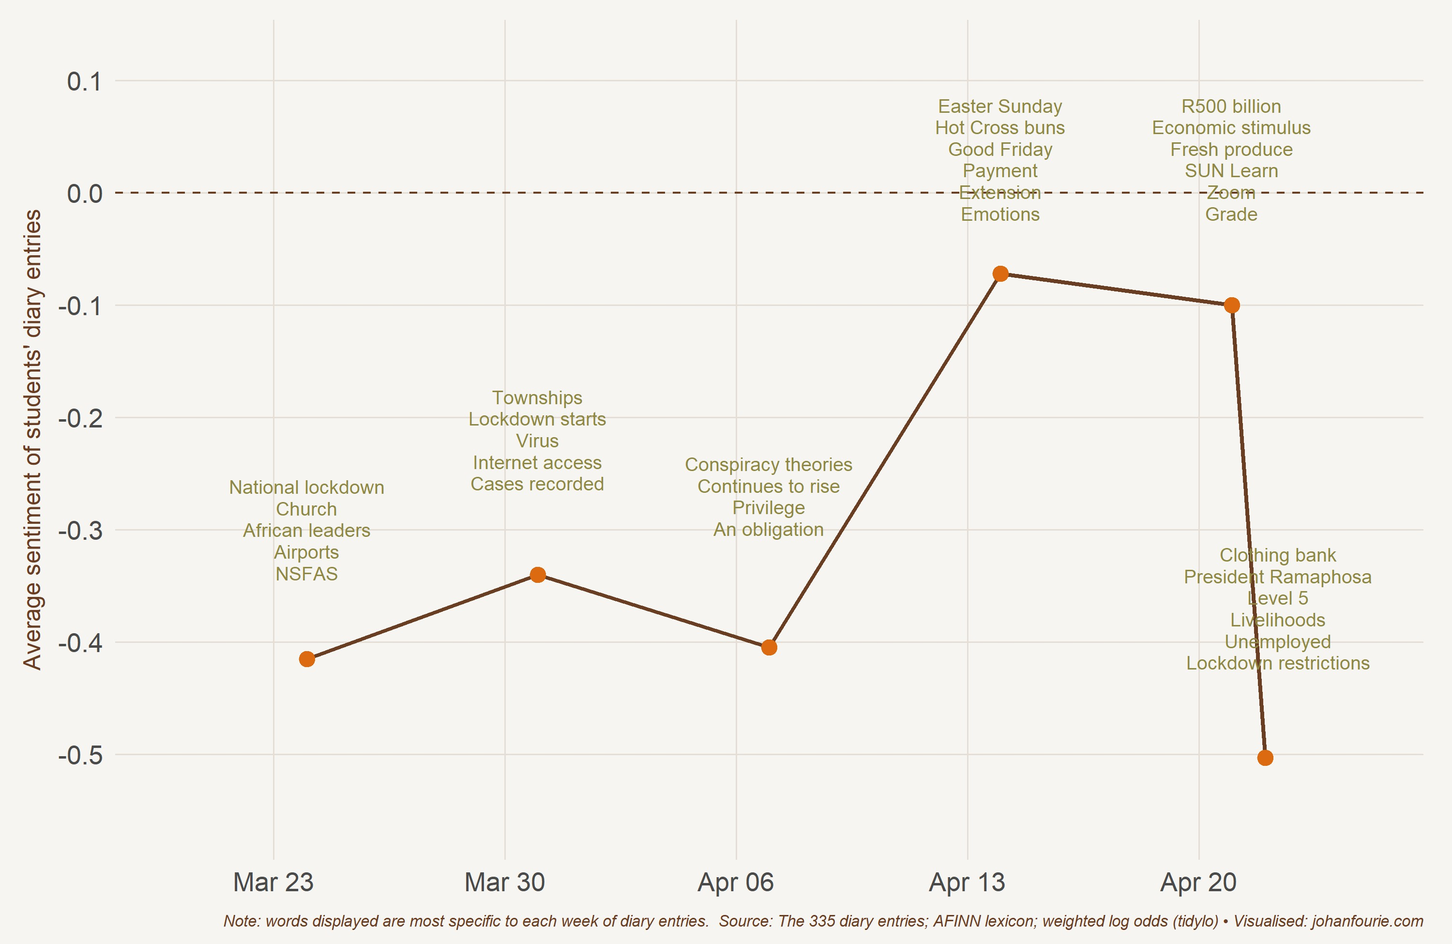
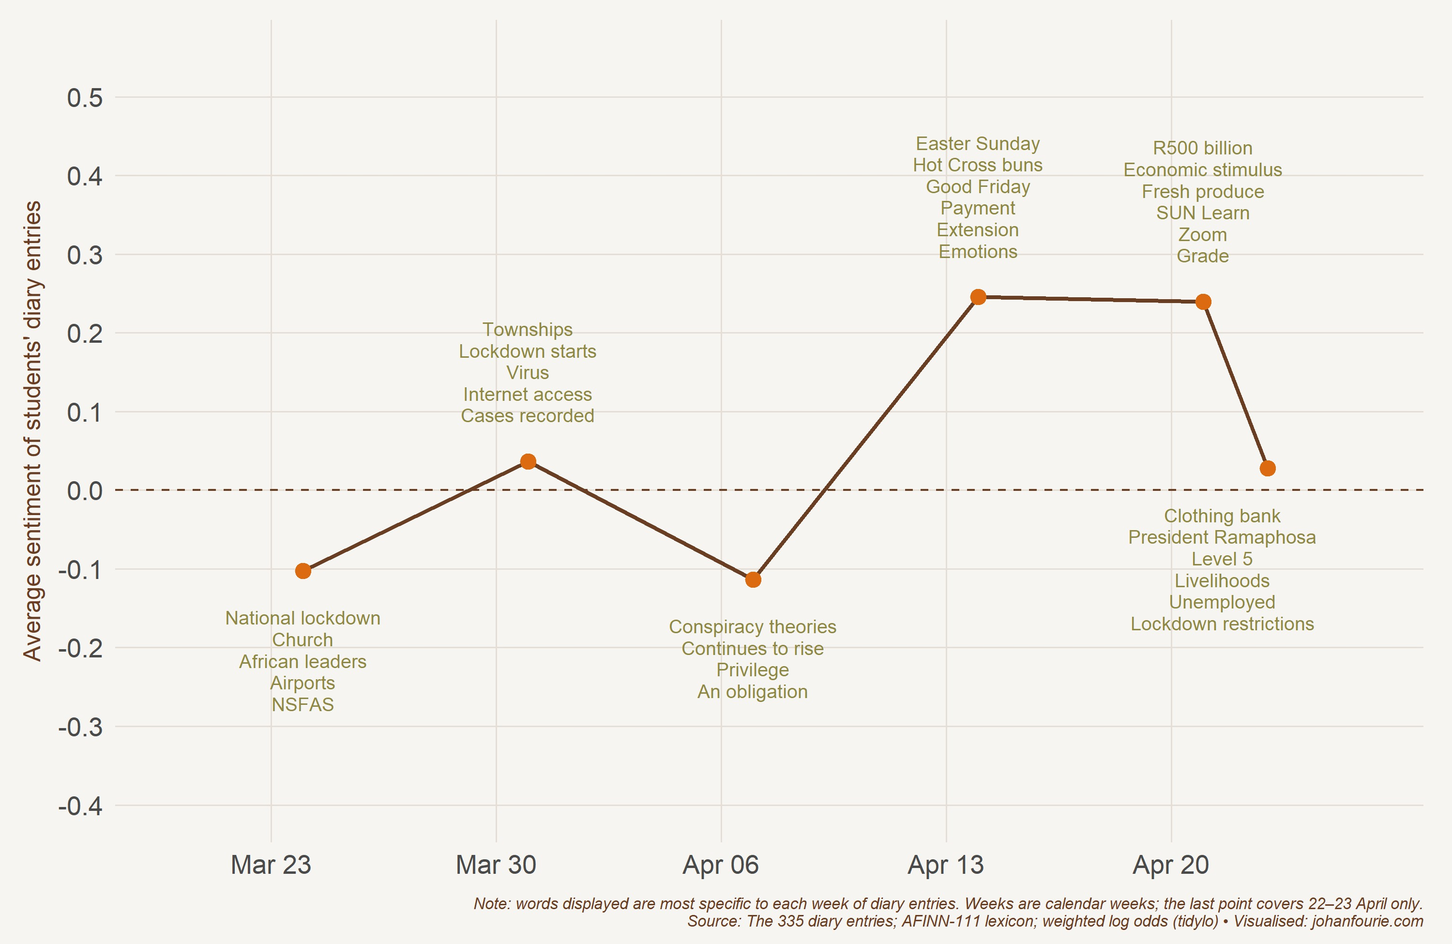
LUL: recompute the sentiment series from the published entries
Figures 4, 5 and 7 now plot the mean AFINN-111 score per calendar week
computed from the 335 published entries, instead of values read off the
printed chart. The calendar-week binning reproduces the book's week
structure (last point = 22–23 April) and the tidylo log odds reproduce its
theme words; the printed level could not be reproduced, so the introduction
is minimally adjusted (word count, 'virus' count, 'unproductive' footnote,
the two sentences on the level of sentiment) and the colophon says the
analysis was recomputed.

diff --git a/docs/LUL/introduction.html b/docs/LUL/introduction.html
@@ -415,7 +415,7 @@ gtag('config', 'G-TQJEXD9NM3', { 'anonymize_ip': true});
     <div>
     <div class="quarto-title-meta-heading">Modified</div>
     <div class="quarto-title-meta-contents">
-      <p class="date-modified">October 19, 2026</p>
+      <p class="date-modified">October 20, 2026</p>
     </div>
   </div>
     
@@ -485,18 +485,18 @@ gtag('config', 'G-TQJEXD9NM3', { 'anonymize_ip': true});
 <div class="figure-caption">
 <p>Figure 2 The word cloud on Steven Norman’s website</p>
 </div>
-<p>The 335 entries we analysed include more than 46 800 words. Similar to Norman, we began with a word cloud which reveals the most important words used by the students in their diary entries. The size of the word is correlated to how frequently it is used. Figure 3 presents the results. The most popular word across all entries is ‘lockdown’. This makes sense. The national lockdown was indeed the reason why students were at home and why they kept a diary. It is interesting, though, to note the other words that feature prominently. These include ‘time’, ‘people’, ‘day’, and ‘family’. Place, people and time.</p>
+<p>The 335 entries we analysed include more than 46 600 words. Similar to Norman, we began with a word cloud which reveals the most important words used by the students in their diary entries. The size of the word is correlated to how frequently it is used. Figure 3 presents the results. The most popular word across all entries is ‘lockdown’. This makes sense. The national lockdown was indeed the reason why students were at home and why they kept a diary. It is interesting, though, to note the other words that feature prominently. These include ‘time’, ‘people’, ‘day’, and ‘family’. Place, people and time.</p>
 <p><img src="images/figure-3.jpg" class="book-figure img-fluid" alt="Two word clouds: a frequency cloud of all diary words and a positive/negative sentiment cloud"></p>
 <div class="figure-caption">
 <p>Figure 3 A conventional word cloud of our full selection and one with sentiment analysis</p>
 </div>
-<p>We add sentiment analysis too, presented in the second plot of Figure 3. The sentiment of a word is scored with the bing sentiment lexicon, a general-purpose English sentiment lexicon that categorises words in a binary fashion, either positive or negative.<a href="#fn33" class="footnote-ref" id="fnref33" role="doc-noteref"><sup>33</sup></a> The first finding is that ‘virus’ features most prominently in the entries that are classified. The word appears 152 times in the entries. A second finding is that students seem to use positive words – including the word ‘positive’ – frequently (if not more so than negative words). Common positive words include ‘support’, ‘privileged’, ‘healthy’, ‘productive’ and ‘excited’. It should be kept in mind that the context in which these words appear also matters. A student writing that he/she was ‘not productive today’ would, of course, use the word ‘productive’ in a negative context. The good news is that there are few examples of such negative use of the word ‘productive’ in the entries, which suggests that this is not a serious concern.<a href="#fn34" class="footnote-ref" id="fnref34" role="doc-noteref"><sup>34</sup></a></p>
+<p>We add sentiment analysis too, presented in the second plot of Figure 3. The sentiment of a word is scored with the bing sentiment lexicon, a general-purpose English sentiment lexicon that categorises words in a binary fashion, either positive or negative.<a href="#fn33" class="footnote-ref" id="fnref33" role="doc-noteref"><sup>33</sup></a> The first finding is that ‘virus’ features most prominently in the entries that are classified. The word appears 114 times in the entries. A second finding is that students seem to use positive words – including the word ‘positive’ – frequently (if not more so than negative words). Common positive words include ‘support’, ‘privileged’, ‘healthy’, ‘productive’ and ‘excited’. It should be kept in mind that the context in which these words appear also matters. A student writing that he/she was ‘not productive today’ would, of course, use the word ‘productive’ in a negative context. The good news is that there are few examples of such negative use of the word ‘productive’ in the entries, which suggests that this is not a serious concern.<a href="#fn34" class="footnote-ref" id="fnref34" role="doc-noteref"><sup>34</sup></a></p>
 <p>Next we analyse the change in sentiment over the course of the first month. The method requires some explanation. The words used by the students are grouped by week and scored according to a sentiment lexicon. The score is then averaged across the week. The points in Figure 4 represent the average sentiment of the students’ diary entries in a particular week.</p>
 <p><img src="images/figure-4.jpg" class="book-figure img-fluid" alt="Line chart of weekly average sentiment of the diary entries with the key themes of each week annotated"></p>
 <div class="figure-caption">
 <p>Figure 4 Change in sentiment and week-specific key themes</p>
 </div>
-<p>There are two important findings. First, sentiment is poor at the start, improves over the course of the month, and then collapses in the final week. Second, it is important to note that the average sentiment is negative for the entirety of the period. This seems somewhat in contrast to Figure 3, which shows a larger number of positive to negative words. This can be explained by the weighting of the words. The AFINN-111 dataset is a lexicon of English words rated for valence with an integer between minus five and plus five.<a href="#fn35" class="footnote-ref" id="fnref35" role="doc-noteref"><sup>35</sup></a> The words were manually labeled by Finn Årup Nielsen in 2009-2011. An example of the scores assigned to words in the students’ diary entries is shown in Table 1.</p>
+<p>There are two important findings. First, sentiment is poor at the start, improves over the course of the month, and then collapses in the final days. Second, it is important to note that the average sentiment hovers around zero for the entirety of the period, and is negative in two of the six weeks. This seems somewhat in contrast to Figure 3, which shows a larger number of positive to negative words. This can be explained by the weighting of the words. The AFINN-111 dataset is a lexicon of English words rated for valence with an integer between minus five and plus five.<a href="#fn35" class="footnote-ref" id="fnref35" role="doc-noteref"><sup>35</sup></a> The words were manually labeled by Finn Årup Nielsen in 2009-2011. An example of the scores assigned to words in the students’ diary entries is shown in Table 1.</p>
 <div class="figure-caption table-caption">
 <p>Table 1 AFINN sentiment scores for words in the diary entries</p>
 </div>
@@ -566,7 +566,7 @@ gtag('config', 'G-TQJEXD9NM3', { 'anonymize_ip': true});
 <div class="figure-caption">
 <p>Figure 7 Sentiment analysis, JSE All Share Index and rand/dollar exchange rate</p>
 </div>
-<p>We also want to compare the sentiment time series to other indicators of well-being. Because we do not have accurate daily observations of indicators like income or unemployment, we use two measures that should provide a rough approximation of investor sentiment, the Johannesburg Stock Exchange All Share Index (JSE) and the South African rand/US dollar exchange rate, shown in Figure 7. The JSE, similar to many other stock exchanges globally, had collapsed during the first few weeks of March. It was, therefore, already on the road to recovery when Cyril Ramaphosa announced the national shutdown. The rand, however, continued to depreciate throughout the period, recovering somewhat after 6 April, but then returning to a high of R19 to the dollar by the end of April, the highest it had ever been. Although there are seemingly correlations between the three indicators, we are cautious to overinterpret these correlations. In general, the stock market improvement seems to correlate positively with the sentiment analysis, while the rand, surprisingly, seems to be negatively correlated; an increase in the sentiment is correlated to a depreciation of the currency. The safest interpretation would be that the levels – rather than the trends – indicate that the stock market, rand and students’ sentiment were at historic lows.</p>
+<p>We also want to compare the sentiment time series to other indicators of well-being. Because we do not have accurate daily observations of indicators like income or unemployment, we use two measures that should provide a rough approximation of investor sentiment, the Johannesburg Stock Exchange All Share Index (JSE) and the South African rand/US dollar exchange rate, shown in Figure 7. The JSE, similar to many other stock exchanges globally, had collapsed during the first few weeks of March. It was, therefore, already on the road to recovery when Cyril Ramaphosa announced the national shutdown. The rand, however, continued to depreciate throughout the period, recovering somewhat after 6 April, but then returning to a high of R19 to the dollar by the end of April, the highest it had ever been. Although there are seemingly correlations between the three indicators, we are cautious to overinterpret these correlations. In general, the stock market improvement seems to correlate positively with the sentiment analysis, while the rand, surprisingly, seems to be negatively correlated; an increase in the sentiment is correlated to a depreciation of the currency. The safest interpretation would be that the levels – rather than the trends – indicate that the stock market and the rand were at historic lows, with students’ sentiment barely above neutral.</p>
 <p>The approach above draws our attention to key themes in the diary entries. It exposes the generally negative feelings that the students experienced, but also important moments of temporal shift and the key topics which shaped this temporal shift. We believe these trends serve as useful context to guide close reading of the texts.</p>
 </section>
 <section id="microhistories" class="level2">
@@ -623,7 +623,7 @@ gtag('config', 'G-TQJEXD9NM3', { 'anonymize_ip': true});
 <li id="fn31"><p>They are preserved for academic purposes but cannot be made available.<a href="#fnref31" class="footnote-back" role="doc-backlink">↩</a></p></li>
 <li id="fn32"><p>The website was still accessible on 2 July 2021 at https://bit.ly/3EXL8dl<a href="#fnref32" class="footnote-back" role="doc-backlink">↩</a></p></li>
 <li id="fn33"><p>The lexicon is available at https://bit.ly/3GYyNrj<a href="#fnref33" class="footnote-back" role="doc-backlink">↩</a></p></li>
-<li id="fn34"><p>The word ‘unproductive’ only appears twice.<a href="#fnref34" class="footnote-back" role="doc-backlink">↩</a></p></li>
+<li id="fn34"><p>The word ‘unproductive’ only appears three times.<a href="#fnref34" class="footnote-back" role="doc-backlink">↩</a></p></li>
 <li id="fn35"><p>The lexicon is available at https://bit.ly/3oawhpa<a href="#fnref35" class="footnote-back" role="doc-backlink">↩</a></p></li>
 <li id="fn36"><p>Monroe, B.L., Colures, M.P. &amp; Quinn, K.M. (2008). Fightin’ words: Lexical feature selection and evaluation for identifying the content of political conflict. <em>Political Analysis</em>, 16(4):372-403.<a href="#fnref36" class="footnote-back" role="doc-backlink">↩</a></p></li>
 <li id="fn37"><p>Trivellato, F. (2015). Microstoria/Microhistoire/Microhistory. <em>French Politics, Culture and Society</em>, 33(1):125.<a href="#fnref37" class="footnote-back" role="doc-backlink">↩</a></p></li>

diff --git a/docs/LUL/index.html b/docs/LUL/index.html
@@ -417,7 +417,7 @@ gtag('config', 'G-TQJEXD9NM3', { 'anonymize_ip': true});
     <div>
     <div class="quarto-title-meta-heading">Modified</div>
     <div class="quarto-title-meta-contents">
-      <p class="date-modified">October 19, 2026</p>
+      <p class="date-modified">October 20, 2026</p>
     </div>
   </div>
     
@@ -461,7 +461,7 @@ gtag('config', 'G-TQJEXD9NM3', { 'anonymize_ip': true});
 <p>Fourie, Johan and Laura Richardson (eds). <em>Life under Lockdown: An anthology of Stellenbosch student Covid-19 diary entries</em>. Stellenbosch: African Sun Media, 2022. Free online edition, johanfourie.com/LUL. Accessed [date].</p>
 </blockquote>
 <div class="licence-notice">
-<p><strong>About this edition.</strong> <em>Life under Lockdown</em> was first published in March 2022 by African Sun Media under the SUN PReSS imprint (ISBN 978-1-991201-64-5; e-book 978-1-991201-65-2; <a href="https://doi.org/10.52779/9781991201652">doi:10.52779/9781991201652</a>). © 2022 African Sun Media and the editors. This online edition is free to read; the text is <strong>not</strong> for download or redistribution. The print and e-book editions remain available from <a href="https://africansunmedia.co.za">African Sun Media</a> and booksellers. Cover art: <em>Atlas</em> by Klara-Marie den Heijer; cover design by Nudge Studio.</p>
+<p><strong>About this edition.</strong> <em>Life under Lockdown</em> was first published in March 2022 by African Sun Media under the SUN PReSS imprint (ISBN 978-1-991201-64-5; e-book 978-1-991201-65-2; <a href="https://doi.org/10.52779/9781991201652">doi:10.52779/9781991201652</a>). © 2022 African Sun Media and the editors. This online edition is free to read; the text is <strong>not</strong> for download or redistribution. The print and e-book editions remain available from <a href="https://africansunmedia.co.za">African Sun Media</a> and booksellers. Cover art: <em>Atlas</em> by Klara-Marie den Heijer; cover design by Nudge Studio. The figures in the introduction were redrawn for this edition, and the text analysis (word clouds and the weekly sentiment series) recomputed from the 335 published entries; a few counts therefore differ slightly from the print edition.</p>
 </div>
 
 

diff --git a/LUL/introduction.md b/LUL/introduction.md
@@ -90,7 +90,7 @@ Ten word clouds were generated over the course of the project. Figure 2 is the f
 Figure 2 The word cloud on Steven Norman’s website
 :::
 
-The 335 entries we analysed include more than 46 800 words. Similar to Norman, we began with a word cloud which reveals the most important words used by the students in their diary entries. The size of the word is correlated to how frequently it is used. Figure 3 presents the results. The most popular word across all entries is ‘lockdown’. This makes sense. The national lockdown was indeed the reason why students were at home and why they kept a diary. It is interesting, though, to note the other words that feature prominently. These include ‘time’, ‘people’, ‘day’, and ‘family’. Place, people and time.
+The 335 entries we analysed include more than 46 600 words. Similar to Norman, we began with a word cloud which reveals the most important words used by the students in their diary entries. The size of the word is correlated to how frequently it is used. Figure 3 presents the results. The most popular word across all entries is ‘lockdown’. This makes sense. The national lockdown was indeed the reason why students were at home and why they kept a diary. It is interesting, though, to note the other words that feature prominently. These include ‘time’, ‘people’, ‘day’, and ‘family’. Place, people and time.
 
 ![](images/figure-3.jpg){.book-figure fig-alt="Two word clouds: a frequency cloud of all diary words and a positive/negative sentiment cloud"}
 
@@ -98,7 +98,7 @@ The 335 entries we analysed include more than 46 800 words. Similar to Norman, w
 Figure 3 A conventional word cloud of our full selection and one with sentiment analysis
 :::
 
-We add sentiment analysis too, presented in the second plot of Figure 3. The sentiment of a word is scored with the bing sentiment lexicon, a general-purpose English sentiment lexicon that categorises words in a binary fashion, either positive or negative.[^33] The first finding is that ‘virus’ features most prominently in the entries that are classified. The word appears 152 times in the entries. A second finding is that students seem to use positive words – including the word ‘positive’ – frequently (if not more so than negative words). Common positive words include ‘support’, ‘privileged’, ‘healthy’, ‘productive’ and ‘excited’. It should be kept in mind that the context in which these words appear also matters. A student writing that he/she was ‘not productive today’ would, of course, use the word ‘productive’ in a negative context. The good news is that there are few examples of such negative use of the word ‘productive’ in the entries, which suggests that this is not a serious concern.[^34]
+We add sentiment analysis too, presented in the second plot of Figure 3. The sentiment of a word is scored with the bing sentiment lexicon, a general-purpose English sentiment lexicon that categorises words in a binary fashion, either positive or negative.[^33] The first finding is that ‘virus’ features most prominently in the entries that are classified. The word appears 114 times in the entries. A second finding is that students seem to use positive words – including the word ‘positive’ – frequently (if not more so than negative words). Common positive words include ‘support’, ‘privileged’, ‘healthy’, ‘productive’ and ‘excited’. It should be kept in mind that the context in which these words appear also matters. A student writing that he/she was ‘not productive today’ would, of course, use the word ‘productive’ in a negative context. The good news is that there are few examples of such negative use of the word ‘productive’ in the entries, which suggests that this is not a serious concern.[^34]
 
 Next we analyse the change in sentiment over the course of the first month. The method requires some explanation. The words used by the students are grouped by week and scored according to a sentiment lexicon. The score is then averaged across the week. The points in Figure 4 represent the average sentiment of the students’ diary entries in a particular week.
 
@@ -108,7 +108,7 @@ Next we analyse the change in sentiment over the course of the first month. The 
 Figure 4 Change in sentiment and week-specific key themes
 :::
 
-There are two important findings. First, sentiment is poor at the start, improves over the course of the month, and then collapses in the final week. Second, it is important to note that the average sentiment is negative for the entirety of the period. This seems somewhat in contrast to Figure 3, which shows a larger number of positive to negative words. This can be explained by the weighting of the words. The AFINN-111 dataset is a lexicon of English words rated for valence with an integer between minus five and plus five.[^35] The words were manually labeled by Finn Årup Nielsen in 2009-2011. An example of the scores assigned to words in the students’ diary entries is shown in Table 1.
+There are two important findings. First, sentiment is poor at the start, improves over the course of the month, and then collapses in the final days. Second, it is important to note that the average sentiment hovers around zero for the entirety of the period, and is negative in two of the six weeks. This seems somewhat in contrast to Figure 3, which shows a larger number of positive to negative words. This can be explained by the weighting of the words. The AFINN-111 dataset is a lexicon of English words rated for valence with an integer between minus five and plus five.[^35] The words were manually labeled by Finn Årup Nielsen in 2009-2011. An example of the scores assigned to words in the students’ diary entries is shown in Table 1.
 
 ::: {.figure-caption .table-caption}
 Table 1 AFINN sentiment scores for words in the diary entries
@@ -154,7 +154,7 @@ Figure 6 Period of diary entries and Covid-19 case and death numbers from March 
 Figure 7 Sentiment analysis, JSE All Share Index and rand/dollar exchange rate
 :::
 
-We also want to compare the sentiment time series to other indicators of well-being. Because we do not have accurate daily observations of indicators like income or unemployment, we use two measures that should provide a rough approximation of investor sentiment, the Johannesburg Stock Exchange All Share Index (JSE) and the South African rand/US dollar exchange rate, shown in Figure 7. The JSE, similar to many other stock exchanges globally, had collapsed during the first few weeks of March. It was, therefore, already on the road to recovery when Cyril Ramaphosa announced the national shutdown. The rand, however, continued to depreciate throughout the period, recovering somewhat after 6 April, but then returning to a high of R19 to the dollar by the end of April, the highest it had ever been. Although there are seemingly correlations between the three indicators, we are cautious to overinterpret these correlations. In general, the stock market improvement seems to correlate positively with the sentiment analysis, while the rand, surprisingly, seems to be negatively correlated; an increase in the sentiment is correlated to a depreciation of the currency. The safest interpretation would be that the levels – rather than the trends – indicate that the stock market, rand and students’ sentiment were at historic lows.
+We also want to compare the sentiment time series to other indicators of well-being. Because we do not have accurate daily observations of indicators like income or unemployment, we use two measures that should provide a rough approximation of investor sentiment, the Johannesburg Stock Exchange All Share Index (JSE) and the South African rand/US dollar exchange rate, shown in Figure 7. The JSE, similar to many other stock exchanges globally, had collapsed during the first few weeks of March. It was, therefore, already on the road to recovery when Cyril Ramaphosa announced the national shutdown. The rand, however, continued to depreciate throughout the period, recovering somewhat after 6 April, but then returning to a high of R19 to the dollar by the end of April, the highest it had ever been. Although there are seemingly correlations between the three indicators, we are cautious to overinterpret these correlations. In general, the stock market improvement seems to correlate positively with the sentiment analysis, while the rand, surprisingly, seems to be negatively correlated; an increase in the sentiment is correlated to a depreciation of the currency. The safest interpretation would be that the levels – rather than the trends – indicate that the stock market and the rand were at historic lows, with students’ sentiment barely above neutral.
 
 The approach above draws our attention to key themes in the diary entries. It exposes the generally negative feelings that the students experienced, but also important moments of temporal shift and the key topics which shaped this temporal shift. We believe these trends serve as useful context to guide close reading of the texts.
 
@@ -248,7 +248,7 @@ Ultimately, the purpose of this anthology is two-fold. First, to preserve. Covid
 
 [^33]: The lexicon is available at https://bit.ly/3GYyNrj
 
-[^34]: The word ‘unproductive’ only appears twice.
+[^34]: The word ‘unproductive’ only appears three times.
 
 [^35]: The lexicon is available at https://bit.ly/3oawhpa
 

diff --git a/README.md b/README.md
@@ -116,11 +116,15 @@ blanked). © 2022 African Sun Media and the editors – the colophon on `index.q
   335 entries). One deliberate correction: the artist's name on the cover-art page is
   spelled *den Heijer* (the print edition has *den Meijer*).
 - **Figures:** 1–2 are screenshots, used as supplied. 3–7 are redrawn in the house style by
-  `LUL/ingest/lul_figures.R` (word clouds recomputed from the published entries; the weekly
-  sentiment values of Figure 4 are taken from the printed figure because the original data
-  are gone; Covid counts from DSFSI/NICD, rand/dollar from FRED, JSE from Yahoo Finance,
-  cached in `LUL/ingest/_cache/`). The supplied black-and-white originals stay in
-  `LUL/ingest/_source/`.
+  `LUL/ingest/lul_figures.R`. The text analysis is recomputed from the published entries
+  because the original data are gone: word clouds (bing), and the weekly sentiment series of
+  Figures 4, 5 and 7 as the mean AFINN-111 score per calendar week (`lubridate::week()`,
+  which reproduces the printed week bins – the last one is 22–23 April only – and, via
+  tidylo, the printed theme words; the printed *level* was ~0.3 lower and could not be
+  reproduced, so the introduction's text was minimally adjusted and the colophon says so).
+  Covid counts from DSFSI/NICD, rand/dollar from FRED, JSE from Yahoo Finance, AFINN-111
+  from the fnielsen/afinn repo, all cached in `LUL/ingest/_cache/`. The supplied
+  black-and-white originals stay in `LUL/ingest/_source/`.
 - Builds in CI with the other books (`publish.yml`).
 
 ---
